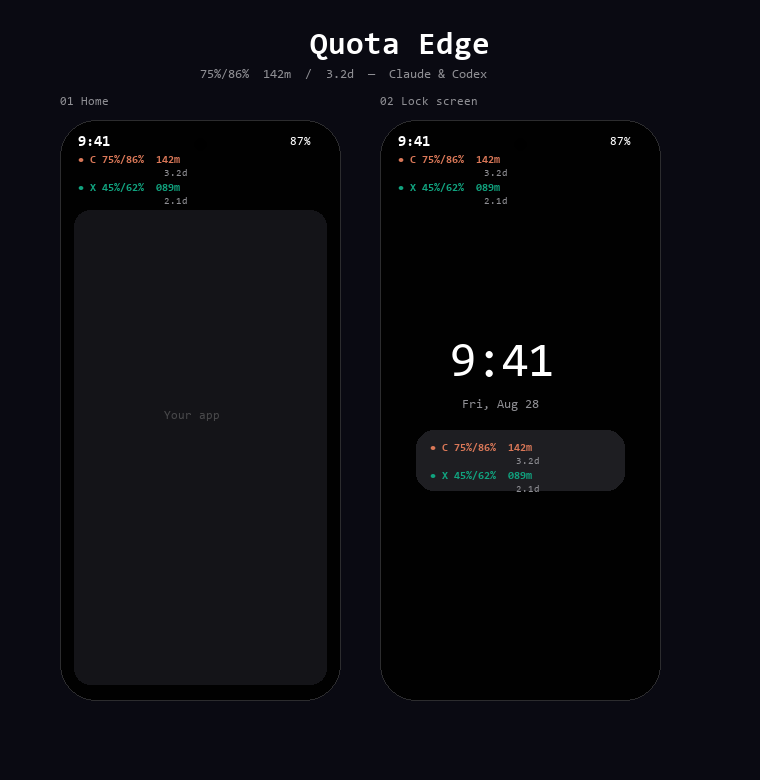
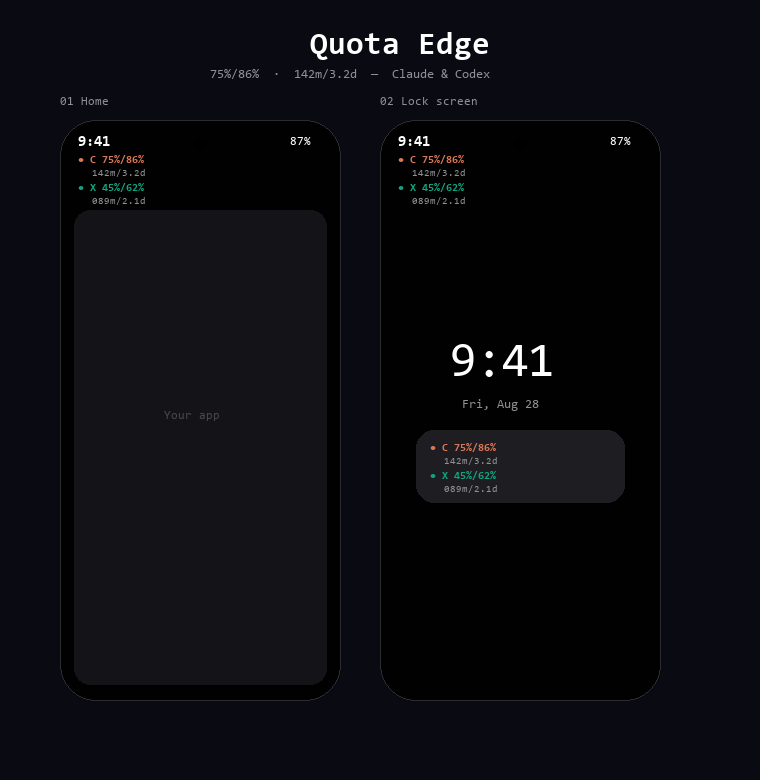
Use 142m/3.2d single-line reset format and fix widget build

diff --git a/android/app/src/main/java/com/quotaedge/galaxy/widget/QuotaWidget.kt b/android/app/src/main/java/com/quotaedge/galaxy/widget/QuotaWidget.kt
@@ -4,14 +4,11 @@ import android.appwidget.AppWidgetManager
 import android.content.ComponentName
 import android.content.Context
 import android.content.Intent
-import androidx.compose.runtime.Composable
-import androidx.compose.ui.graphics.Color
 import androidx.compose.ui.unit.dp
 import androidx.compose.ui.unit.sp
 import androidx.glance.GlanceId
 import androidx.glance.GlanceModifier
 import androidx.glance.GlanceTheme
-import androidx.glance.LocalContext
 import androidx.glance.action.clickable
 import androidx.glance.appwidget.GlanceAppWidget
 import androidx.glance.appwidget.GlanceAppWidgetReceiver
@@ -22,35 +19,59 @@ import androidx.glance.layout.Column
 import androidx.glance.layout.Spacer
 import androidx.glance.layout.height
 import androidx.glance.layout.padding
+import androidx.glance.text.FontWeight
 import androidx.glance.text.Text
 import androidx.glance.text.TextStyle
-import androidx.glance.text.FontWeight
+import androidx.glance.unit.ColorProvider
 import com.quotaedge.galaxy.MainActivity
-import com.quotaedge.galaxy.ui.theme.ClaudeOrange
-import com.quotaedge.galaxy.ui.theme.CodexGreen
+import kotlinx.coroutines.runBlocking
 
 class QuotaWidget : GlanceAppWidget() {
     override suspend fun provideGlance(context: Context, id: GlanceId) {
         provideContent {
             val prefs = context.getSharedPreferences("quota_cache", Context.MODE_PRIVATE)
-            val c1 = prefs.getString("claude_l1", "--%/--%  ---m")!!
-            val c2 = prefs.getString("claude_l2", "       -.-d")!!.trim()
-            val x1 = prefs.getString("codex_l1", "--%/--%  ---m")!!
-            val x2 = prefs.getString("codex_l2", "       -.-d")!!.trim()
+            val c1 = prefs.getString("claude_l1", "--%/--%")!!
+            val c2 = prefs.getString("claude_l2", "---m/-.-d")!!
+            val x1 = prefs.getString("codex_l1", "--%/--%")!!
+            val x2 = prefs.getString("codex_l2", "---m/-.-d")!!
+            val open = Intent(context, MainActivity::class.java)
             GlanceTheme {
                 Column(
                     modifier = GlanceModifier
-                        .background(Color(0xFF17171A))
+                        .background(ColorProvider(0xFF17171A))
                         .padding(12.dp)
-                        .clickable(actionStartActivity<MainActivity>()),
+                        .clickable(actionStartActivity(open)),
                 ) {
-                    Text("Quota Edge", style = TextStyle(color = Color(0xFF8E8E93), fontSize = 11.sp))
+                    Text(
+                        "Quota Edge",
+                        style = TextStyle(color = ColorProvider(0xFF8E8E93), fontSize = 11.sp),
+                    )
                     Spacer(GlanceModifier.height(6.dp))
-                    Text("● C $c1", style = TextStyle(color = ClaudeOrange, fontSize = 11.sp, fontWeight = FontWeight.Medium))
-                    Text(c2, style = TextStyle(color = Color(0xFF8E8E93), fontSize = 10.sp))
+                    Text(
+                        "● C $c1",
+                        style = TextStyle(
+                            color = ColorProvider(0xFFD97757),
+                            fontSize = 11.sp,
+                            fontWeight = FontWeight.Medium,
+                        ),
+                    )
+                    Text(
+                        "  $c2",
+                        style = TextStyle(color = ColorProvider(0xFF8E8E93), fontSize = 10.sp),
+                    )
                     Spacer(GlanceModifier.height(4.dp))
-                    Text("● X $x1", style = TextStyle(color = CodexGreen, fontSize = 11.sp, fontWeight = FontWeight.Medium))
-                    Text(x2, style = TextStyle(color = Color(0xFF8E8E93), fontSize = 10.sp))
+                    Text(
+                        "● X $x1",
+                        style = TextStyle(
+                            color = ColorProvider(0xFF10A37F),
+                            fontSize = 11.sp,
+                            fontWeight = FontWeight.Medium,
+                        ),
+                    )
+                    Text(
+                        "  $x2",
+                        style = TextStyle(color = ColorProvider(0xFF8E8E93), fontSize = 10.sp),
+                    )
                 }
             }
         }
@@ -61,8 +82,11 @@ class QuotaWidget : GlanceAppWidget() {
             val mgr = AppWidgetManager.getInstance(context)
             val cn = ComponentName(context, QuotaWidgetReceiver::class.java)
             val ids = mgr.getAppWidgetIds(cn)
-            if (ids.isNotEmpty()) {
-                QuotaWidget().update(context, ids.toList())
+            if (ids.isEmpty()) return
+            runBlocking {
+                ids.forEach { widgetId ->
+                    QuotaWidget().update(context, GlanceId(widgetId))
+                }
             }
         }
     }

diff --git a/mockups/index.html b/mockups/index.html
@@ -19,7 +19,7 @@
     .row { display:flex; justify-content:space-between; align-items:flex-start; }
     .left { display:flex; flex-direction:column; gap:5px; }
     .time { font-size:15px; font-weight:600; }
-    .glance { font-family:'Roboto Mono',monospace; font-size:11px; font-weight:700; line-height:1.35; }
+    .glance { font-family:'Roboto Mono',monospace; font-size:11px; font-weight:700; line-height:1.45; }
     .p { display:flex; flex-direction:column; gap:1px; }
     .l1.claude { color:var(--claude); }
     .l1.codex { color:var(--codex); }
@@ -35,7 +35,7 @@
 </head>
 <body>
   <h1>Quota Edge</h1>
-  <p class="sub">75%/86% · 142m · 3.2d — Claude & Codex live sync</p>
+  <p class="sub">75%/86% · 142m/3.2d — Claude & Codex live sync</p>
   <div class="screens">
     <div>
       <div class="label">홈 — 시간 아래 2줄 glance</div>
@@ -47,12 +47,12 @@
               <div class="time">9:41</div>
               <div class="glance">
                 <div class="p">
-                  <div class="l1 claude">● C 75%/86%  142m</div>
-                  <div class="l2">            3.2d</div>
+                  <div class="l1 claude">● C 75%/86%</div>
+                  <div class="l2">142m/3.2d</div>
                 </div>
                 <div class="p" style="margin-top:3px">
-                  <div class="l1 codex">● X 45%/62%  089m</div>
-                  <div class="l2">            2.1d</div>
+                  <div class="l1 codex">● X 45%/62%</div>
+                  <div class="l2">089m/2.1d</div>
                 </div>
               </div>
             </div>
@@ -72,10 +72,10 @@
               <div class="left">
                 <div class="time" style="font-size:14px">9:41</div>
                 <div class="glance">
-                  <div class="l1 claude">● C 75%/86%  142m</div>
-                  <div class="l2">            3.2d</div>
-                  <div class="l1 codex" style="margin-top:3px">● X 45%/62%  089m</div>
-                  <div class="l2">            2.1d</div>
+                  <div class="l1 claude">● C 75%/86%</div>
+                  <div class="l2">142m/3.2d</div>
+                  <div class="l1 codex" style="margin-top:3px">● X 45%/62%</div>
+                  <div class="l2">089m/2.1d</div>
                 </div>
               </div>
               <div style="font-size:12px">87%</div>
@@ -85,10 +85,10 @@
             <div class="big">9:41</div>
             <div class="date">금요일, 8월 28일</div>
             <div class="pill">
-              <div class="l1 claude">● C 75%/86%  142m</div>
-              <div class="l2">            3.2d</div>
-              <div class="l1 codex" style="margin-top:4px">● X 45%/62%  089m</div>
-              <div class="l2">            2.1d</div>
+              <div class="l1 claude">● C 75%/86%</div>
+              <div class="l2">142m/3.2d</div>
+              <div class="l1 codex" style="margin-top:4px">● X 45%/62%</div>
+              <div class="l2">089m/2.1d</div>
             </div>
           </div>
         </div>

diff --git a/android/app/src/main/java/com/quotaedge/galaxy/service/UsageSyncService.kt b/android/app/src/main/java/com/quotaedge/galaxy/service/UsageSyncService.kt
@@ -55,15 +55,13 @@ class UsageSyncService : Service() {
             PendingIntent.FLAG_UPDATE_CURRENT or PendingIntent.FLAG_IMMUTABLE,
         )
         val body = buildString {
-            append("C ${snap.claude.line1()}\n")
-            append("  ${snap.claude.line2().trim()}\n")
-            append("X ${snap.codex.line1()}\n")
-            append("  ${snap.codex.line2().trim()}")
+            append("C ${snap.claude.line1()}  ${snap.claude.line2()}\n")
+            append("X ${snap.codex.line1()}  ${snap.codex.line2()}")
         }
         return NotificationCompat.Builder(this, CHANNEL_ID)
             .setSmallIcon(R.drawable.ic_quota)
             .setContentTitle("Quota Edge")
-            .setContentText("C ${snap.claude.line1()} · X ${snap.codex.line1()}")
+            .setContentText("C ${snap.claude.line1()} ${snap.claude.line2()} · X ${snap.codex.line1()} ${snap.codex.line2()}")
             .setStyle(NotificationCompat.BigTextStyle().bigText(body))
             .setOngoing(true)
             .setOnlyAlertOnce(true)

diff --git a/android/app/src/main/java/com/quotaedge/galaxy/data/UsageModels.kt b/android/app/src/main/java/com/quotaedge/galaxy/data/UsageModels.kt
@@ -46,13 +46,13 @@ data class ProviderQuota(
     fun line1(): String {
         val fh = fiveHour?.usedPercent?.toString()?.padStart(2, ' ') ?: "--"
         val wk = weekly?.usedPercent?.toString()?.padStart(2, ' ') ?: "--"
-        val mins = fiveHour?.remainingMinutes()?.let { "%03dm".format(it) } ?: "---m"
-        return "${fh}%/${wk}%  $mins"
+        return "${fh}%/${wk}%"
     }
 
     fun line2(): String {
+        val mins = fiveHour?.remainingMinutes()?.let { "%03dm".format(it) } ?: "---m"
         val days = weekly?.remainingDays()?.let { "%.1fd".format(it) } ?: "-.-d"
-        return "            $days"
+        return "$mins/$days"
     }
 }
 

diff --git a/android/app/src/main/java/com/quotaedge/galaxy/ui/MainScreen.kt b/android/app/src/main/java/com/quotaedge/galaxy/ui/MainScreen.kt
@@ -165,7 +165,7 @@ fun MainScreen() {
                     } else OverlayService.stop(context)
                 }
                 Text(
-                    "포맷: 5h%/주간% + 142m (5h 리셋) / 3.2d (주간 리셋)",
+                    "포맷: 5h%/주간% (1줄) + 142m/3.2d (리셋, 1줄)",
                     color = TextMuted,
                     fontSize = 12.sp,
                 )

diff --git a/android/app/src/main/java/com/quotaedge/galaxy/ui/components/GlanceBlocks.kt b/android/app/src/main/java/com/quotaedge/galaxy/ui/components/GlanceBlocks.kt
@@ -44,7 +44,7 @@ fun ProviderGlanceBlock(
             )
         }
         Text(
-            quota.line2(),
+            "  ${quota.line2()}",
             color = TextMuted,
             fontSize = (fontSize.value - 1).sp,
             fontFamily = ff,

diff --git a/scripts/generate_mockups.py b/scripts/generate_mockups.py
@@ -1,4 +1,4 @@
-"""Generate Quota Edge v3 mockups — 2-line glance with 75%/86% 142m / 3.2d."""
+"""Generate Quota Edge mockups — 75%/86% + 142m/3.2d format."""
 from PIL import Image, ImageDraw, ImageFont
 from pathlib import Path
 
@@ -26,10 +26,10 @@ def font(size, bold=False):
     return ImageFont.load_default()
 
 
-def draw_glance(draw, x, y, provider, color, l1, l2):
+def draw_provider(draw, x, y, label, color, pct, reset):
     f1, f2 = font(11, True), font(10)
-    draw.text((x, y), f"● {provider} {l1}", fill=color, font=f1)
-    draw.text((x + 14, y + 14), l2, fill=MUTED, font=f2)
+    draw.text((x, y), f"● {label} {pct}", fill=color, font=f1)
+    draw.text((x + 14, y + 14), reset, fill=MUTED, font=f2)
 
 
 def draw_phone(draw, ox, oy, pw, ph, home=True):
@@ -37,17 +37,17 @@ def draw_phone(draw, ox, oy, pw, ph, home=True):
     draw.ellipse((ox + pw // 2 - 6, oy + 18, ox + pw // 2 + 6, oy + 30), fill=(0, 0, 0))
     draw.text((ox + 18, oy + 14), "9:41", fill=TEXT, font=font(15, True))
     draw.text((ox + pw - 50, oy + 16), "87%", fill=TEXT, font=font(12))
-    draw_glance(draw, ox + 18, oy + 34, "C", CLAUDE, "75%/86%  142m", "            3.2d")
-    draw_glance(draw, ox + 18, oy + 62, "X", CODEX, "45%/62%  089m", "            2.1d")
+    draw_provider(draw, ox + 18, oy + 34, "C", CLAUDE, "75%/86%", "142m/3.2d")
+    draw_provider(draw, ox + 18, oy + 62, "X", CODEX, "45%/62%", "089m/2.1d")
     if home:
         draw.rounded_rectangle((ox + 14, oy + 90, ox + pw - 14, oy + ph - 16), 16, (20, 20, 24))
         draw.text((ox + pw // 2 - 36, oy + ph // 2), "Your app", fill=(72, 72, 74), font=font(12))
     else:
         draw.text((ox + 70, oy + 220), "9:41", fill=TEXT, font=font(48))
         draw.text((ox + 82, oy + 278), "Fri, Aug 28", fill=MUTED, font=font(13))
-        draw.rounded_rectangle((ox + 36, oy + 310, ox + pw - 36, oy + 370), 18, (30, 30, 34))
-        draw_glance(draw, ox + 50, oy + 322, "C", CLAUDE, "75%/86%  142m", "            3.2d")
-        draw_glance(draw, ox + 50, oy + 350, "X", CODEX, "45%/62%  089m", "            2.1d")
+        draw.rounded_rectangle((ox + 36, oy + 310, ox + pw - 36, oy + 382), 18, (30, 30, 34))
+        draw_provider(draw, ox + 50, oy + 322, "C", CLAUDE, "75%/86%", "142m/3.2d")
+        draw_provider(draw, ox + 50, oy + 350, "X", CODEX, "45%/62%", "089m/2.1d")
 
 
 def main():
@@ -55,7 +55,7 @@ def main():
     img = Image.new("RGB", (W, H), CANVAS)
     d = ImageDraw.Draw(img)
     d.text((W // 2 - 70, 30), "Quota Edge", fill=TEXT, font=font(32, True))
-    d.text((W // 2 - 180, 68), "75%/86%  142m  /  3.2d  —  Claude & Codex", fill=MUTED, font=font(13))
+    d.text((W // 2 - 170, 68), "75%/86%  ·  142m/3.2d  —  Claude & Codex", fill=MUTED, font=font(13))
     draw_phone(d, 60, 120, 280, 580, home=True)
     d.text((60, 96), "01 Home", fill=MUTED, font=font(12))
     draw_phone(d, 380, 120, 280, 580, home=False)
